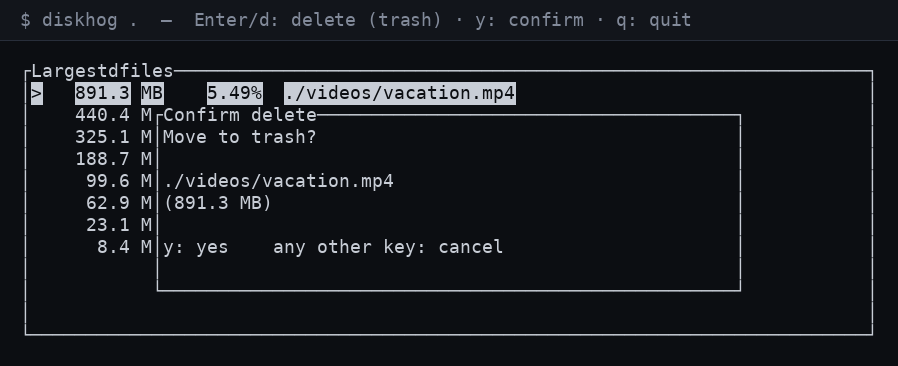
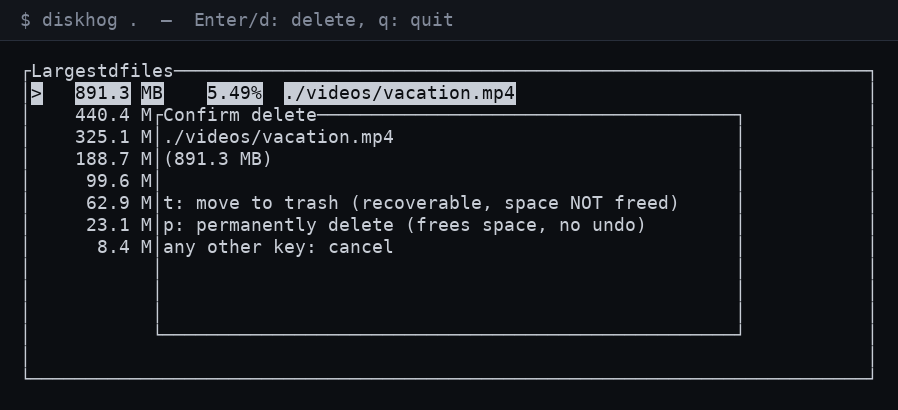
Add a permanent-delete option alongside trash
Trashing a file is a same-filesystem rename, so it doesn't actually
free disk space until the trash is emptied. The confirm dialog now
asks which way: t for trash (recoverable, space not freed) or p to
permanently delete (frees space immediately, no undo).

diff --git a/src/main.rs b/src/main.rs
@@ -80,7 +80,11 @@ impl App {
         self.confirm_delete = None;
     }
 
-    fn confirm_delete_now(&mut self) {
+    /// `permanent: false` moves the file to the trash (recoverable, but does
+    /// NOT free disk space - it's a same-filesystem rename, the data blocks
+    /// stay allocated). `permanent: true` actually unlinks it, immediately
+    /// freeing the space, with no way back.
+    fn confirm_delete_now(&mut self, permanent: bool) {
         let Some(i) = self.confirm_delete.take() else {
             return;
         };
@@ -88,9 +92,20 @@ impl App {
             return;
         };
 
-        match trash::delete(&file.path) {
+        let result = if permanent {
+            std::fs::remove_file(&file.path).map_err(|e| e.to_string())
+        } else {
+            trash::delete(&file.path).map_err(|e| e.to_string())
+        };
+
+        match result {
             Ok(()) => {
-                self.status = Some(format!("Moved to trash: {}", file.path.display()));
+                let verb = if permanent {
+                    "Deleted"
+                } else {
+                    "Moved to trash"
+                };
+                self.status = Some(format!("{}: {}", verb, file.path.display()));
                 self.files.remove(i);
                 if self.files.is_empty() {
                     self.list_state.select(None);
@@ -99,7 +114,8 @@ impl App {
                 }
             }
             Err(e) => {
-                self.status = Some(format!("Failed to trash {}: {}", file.path.display(), e));
+                let verb = if permanent { "delete" } else { "trash" };
+                self.status = Some(format!("Failed to {} {}: {}", verb, file.path.display(), e));
             }
         }
     }
@@ -162,7 +178,8 @@ fn run(terminal: &mut ratatui::DefaultTerminal, app: &mut App) -> std::io::Resul
 
             if app.confirm_delete.is_some() {
                 match key.code {
-                    KeyCode::Char('y') | KeyCode::Char('Y') => app.confirm_delete_now(),
+                    KeyCode::Char('t') | KeyCode::Char('T') => app.confirm_delete_now(false),
+                    KeyCode::Char('p') | KeyCode::Char('P') => app.confirm_delete_now(true),
                     _ => app.cancel_delete(),
                 }
                 continue;
@@ -188,7 +205,7 @@ fn draw(frame: &mut Frame, app: &mut App) {
     .split(frame.area());
 
     let header = format!(
-        "diskhog — {} files, disk {}   ↑/↓: select, Enter/d: delete (trash), q: quit",
+        "diskhog — {} files, disk {}   ↑/↓: select, Enter/d: delete, q: quit",
         app.files.len(),
         human_size(app.total_space)
     );
@@ -229,11 +246,11 @@ fn draw(frame: &mut Frame, app: &mut App) {
 }
 
 fn draw_confirm_popup(frame: &mut Frame, file: &FileEntry) {
-    let area = centered_rect(70, 9, frame.area());
+    let area = centered_rect(70, 11, frame.area());
     frame.render_widget(Clear, area);
 
     let text = format!(
-        "Move to trash?\n\n{}\n({})\n\ny: yes    any other key: cancel",
+        "{}\n({})\n\nt: move to trash (recoverable, space NOT freed)\np: permanently delete (frees space, no undo)\nany other key: cancel",
         file.path.display(),
         human_size(file.size)
     );
@@ -335,7 +352,7 @@ mod tests {
         app.request_delete();
         assert_eq!(app.confirm_delete, Some(0));
 
-        app.confirm_delete_now();
+        app.confirm_delete_now(false);
 
         assert_eq!(app.confirm_delete, None);
         assert!(
@@ -360,6 +377,30 @@ mod tests {
     }
 
     #[test]
+    fn confirm_delete_permanent_actually_frees_the_file_with_no_trash_entry() {
+        let dir =
+            std::env::temp_dir().join(format!("diskhog-app-test-permanent-{}", std::process::id()));
+        let _ = fs::remove_dir_all(&dir);
+        fs::create_dir_all(&dir).unwrap();
+        let target = dir.join("delete_me_for_real.bin");
+        fs::write(&target, vec![0u8; 123]).unwrap();
+
+        let mut app = App::new(vec![entry(target.to_str().unwrap(), 123)], 1000);
+        app.request_delete();
+        app.confirm_delete_now(true);
+
+        assert!(app.files.is_empty());
+        assert!(!target.exists(), "the file should be gone entirely");
+        assert!(
+            app.status.as_deref().unwrap_or("").contains("Deleted"),
+            "status should confirm a real delete, not a trash move: {:?}",
+            app.status
+        );
+
+        let _ = fs::remove_dir_all(&dir);
+    }
+
+    #[test]
     fn confirm_delete_keeps_selection_in_bounds_after_removing_the_last_file() {
         let dir =
             std::env::temp_dir().join(format!("diskhog-app-test-bounds-{}", std::process::id()));
@@ -379,7 +420,7 @@ mod tests {
         );
         app.list_state.select(Some(1)); // the last file
         app.request_delete();
-        app.confirm_delete_now();
+        app.confirm_delete_now(false);
 
         assert_eq!(app.files.len(), 1);
         assert_eq!(

diff --git a/README.md b/README.md
@@ -1,8 +1,8 @@
 # diskhog
 
-TUI that lists the largest files on disk and sends the ones you pick to the
-trash — with each file's size and its share of total disk space shown right
-in the list.
+TUI that lists the largest files on disk and lets you delete the ones you
+pick — either to the trash, or for real — with each file's size and its
+share of total disk space shown right in the list.
 
 <img src="https://raw.githubusercontent.com/wabuntu/diskhog/main/docs/list.png" alt="diskhog listing the largest files under a directory, ranked by size with each file's share of total disk space" width="480">
 <img src="https://raw.githubusercontent.com/wabuntu/diskhog/main/docs/confirm.png" alt="diskhog's delete confirmation dialog, showing the exact path and size before moving a file to the trash" width="480">
@@ -23,14 +23,20 @@ crate — the same walker ripgrep uses), capped to ~30% of available cores so
 a scan doesn't try to claim the whole machine, with a live "N files scanned
 so far" counter printed while it runs.
 
-## Deleting is always a trash move, and always confirmed
+## Deleting always asks, and always asks which way
 
-`diskhog` never calls the equivalent of `rm`. Selecting a file and pressing
-Enter/`d` shows a confirmation dialog with the exact path and size; only
-pressing `y` actually moves it — to your desktop trash (via the
-[`trash`](https://docs.rs/trash) crate, following the freedesktop.org trash
-spec on Linux), where it can be restored like anything else you deleted by
-hand. Any other key cancels.
+Selecting a file and pressing Enter/`d` shows a confirmation dialog with
+the exact path and size, and two ways to actually remove it:
+
+- `t` — move to the trash (via the [`trash`](https://docs.rs/trash) crate,
+  following the freedesktop.org trash spec on Linux), recoverable like
+  anything else you deleted by hand. **This does not free disk space** — on
+  the file's own filesystem it's a same-filesystem rename, so the data
+  blocks stay allocated until the trash itself is emptied.
+- `p` — permanently delete it (an actual unlink). Frees the space
+  immediately; no way back.
+
+Any other key cancels.
 
 ## Install
 
@@ -44,6 +50,8 @@ hand. Any other key cancels.
 Keys:
 
 - `↑`/`↓`: move the selection
-- `Enter` / `d`: ask to move the selected file to the trash
-- `y`: confirm the pending delete (any other key cancels)
+- `Enter` / `d`: open the delete confirmation for the selected file
+- `t`: move it to the trash (recoverable, space not freed)
+- `p`: permanently delete it (frees space, no undo)
+- any other key: cancel the pending delete
 - `q` / `Esc`: quit
